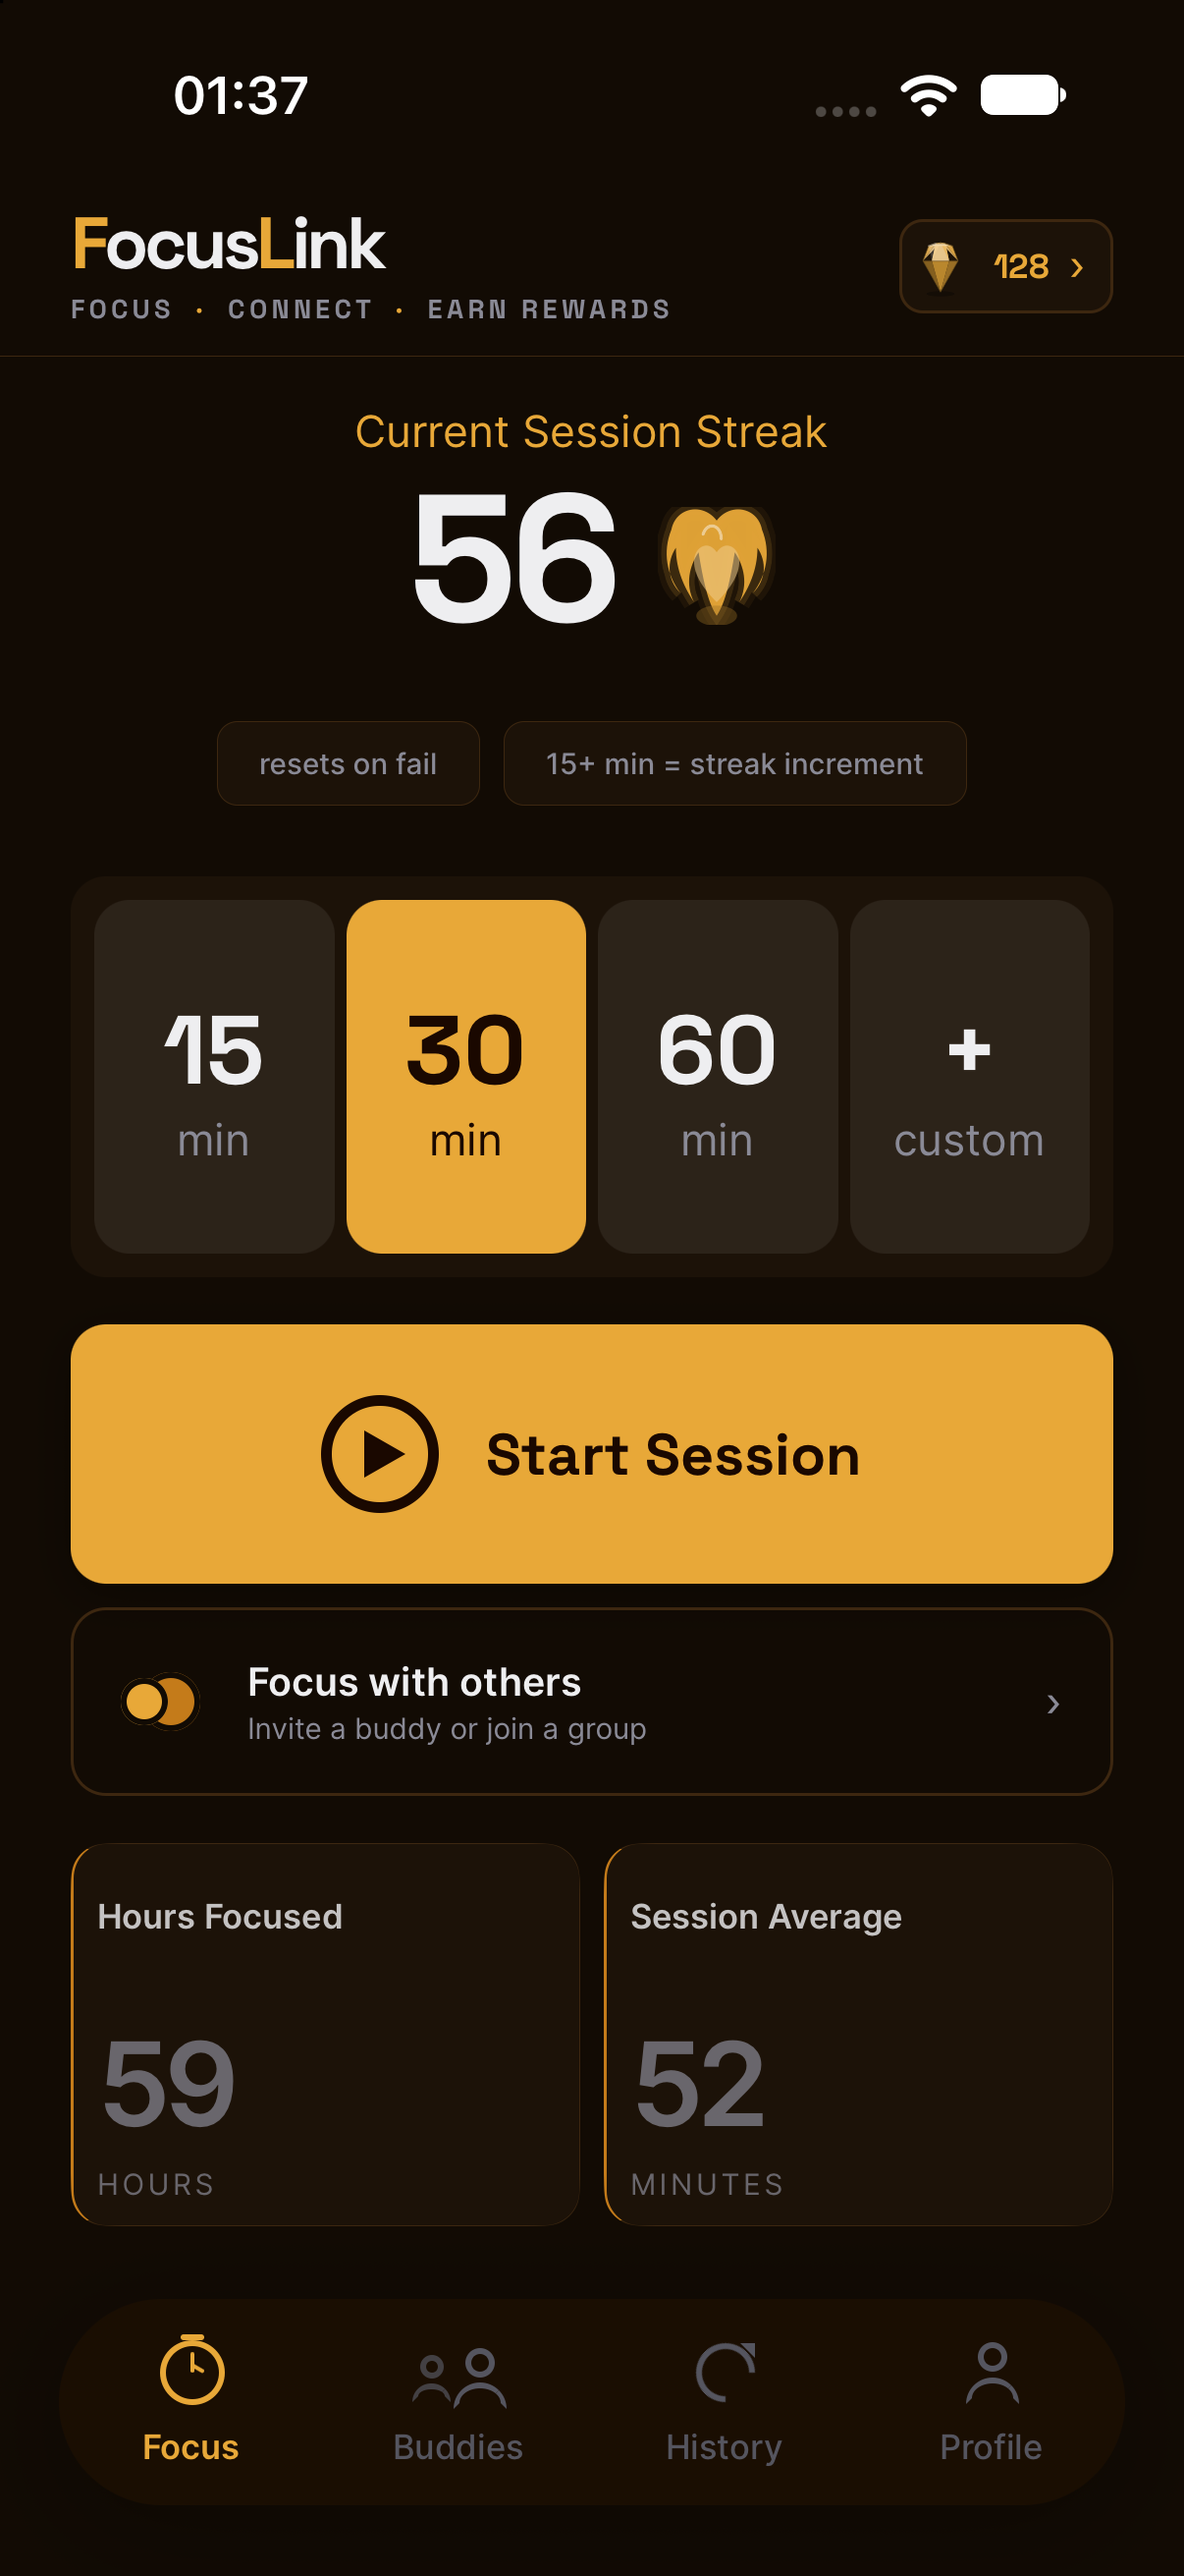
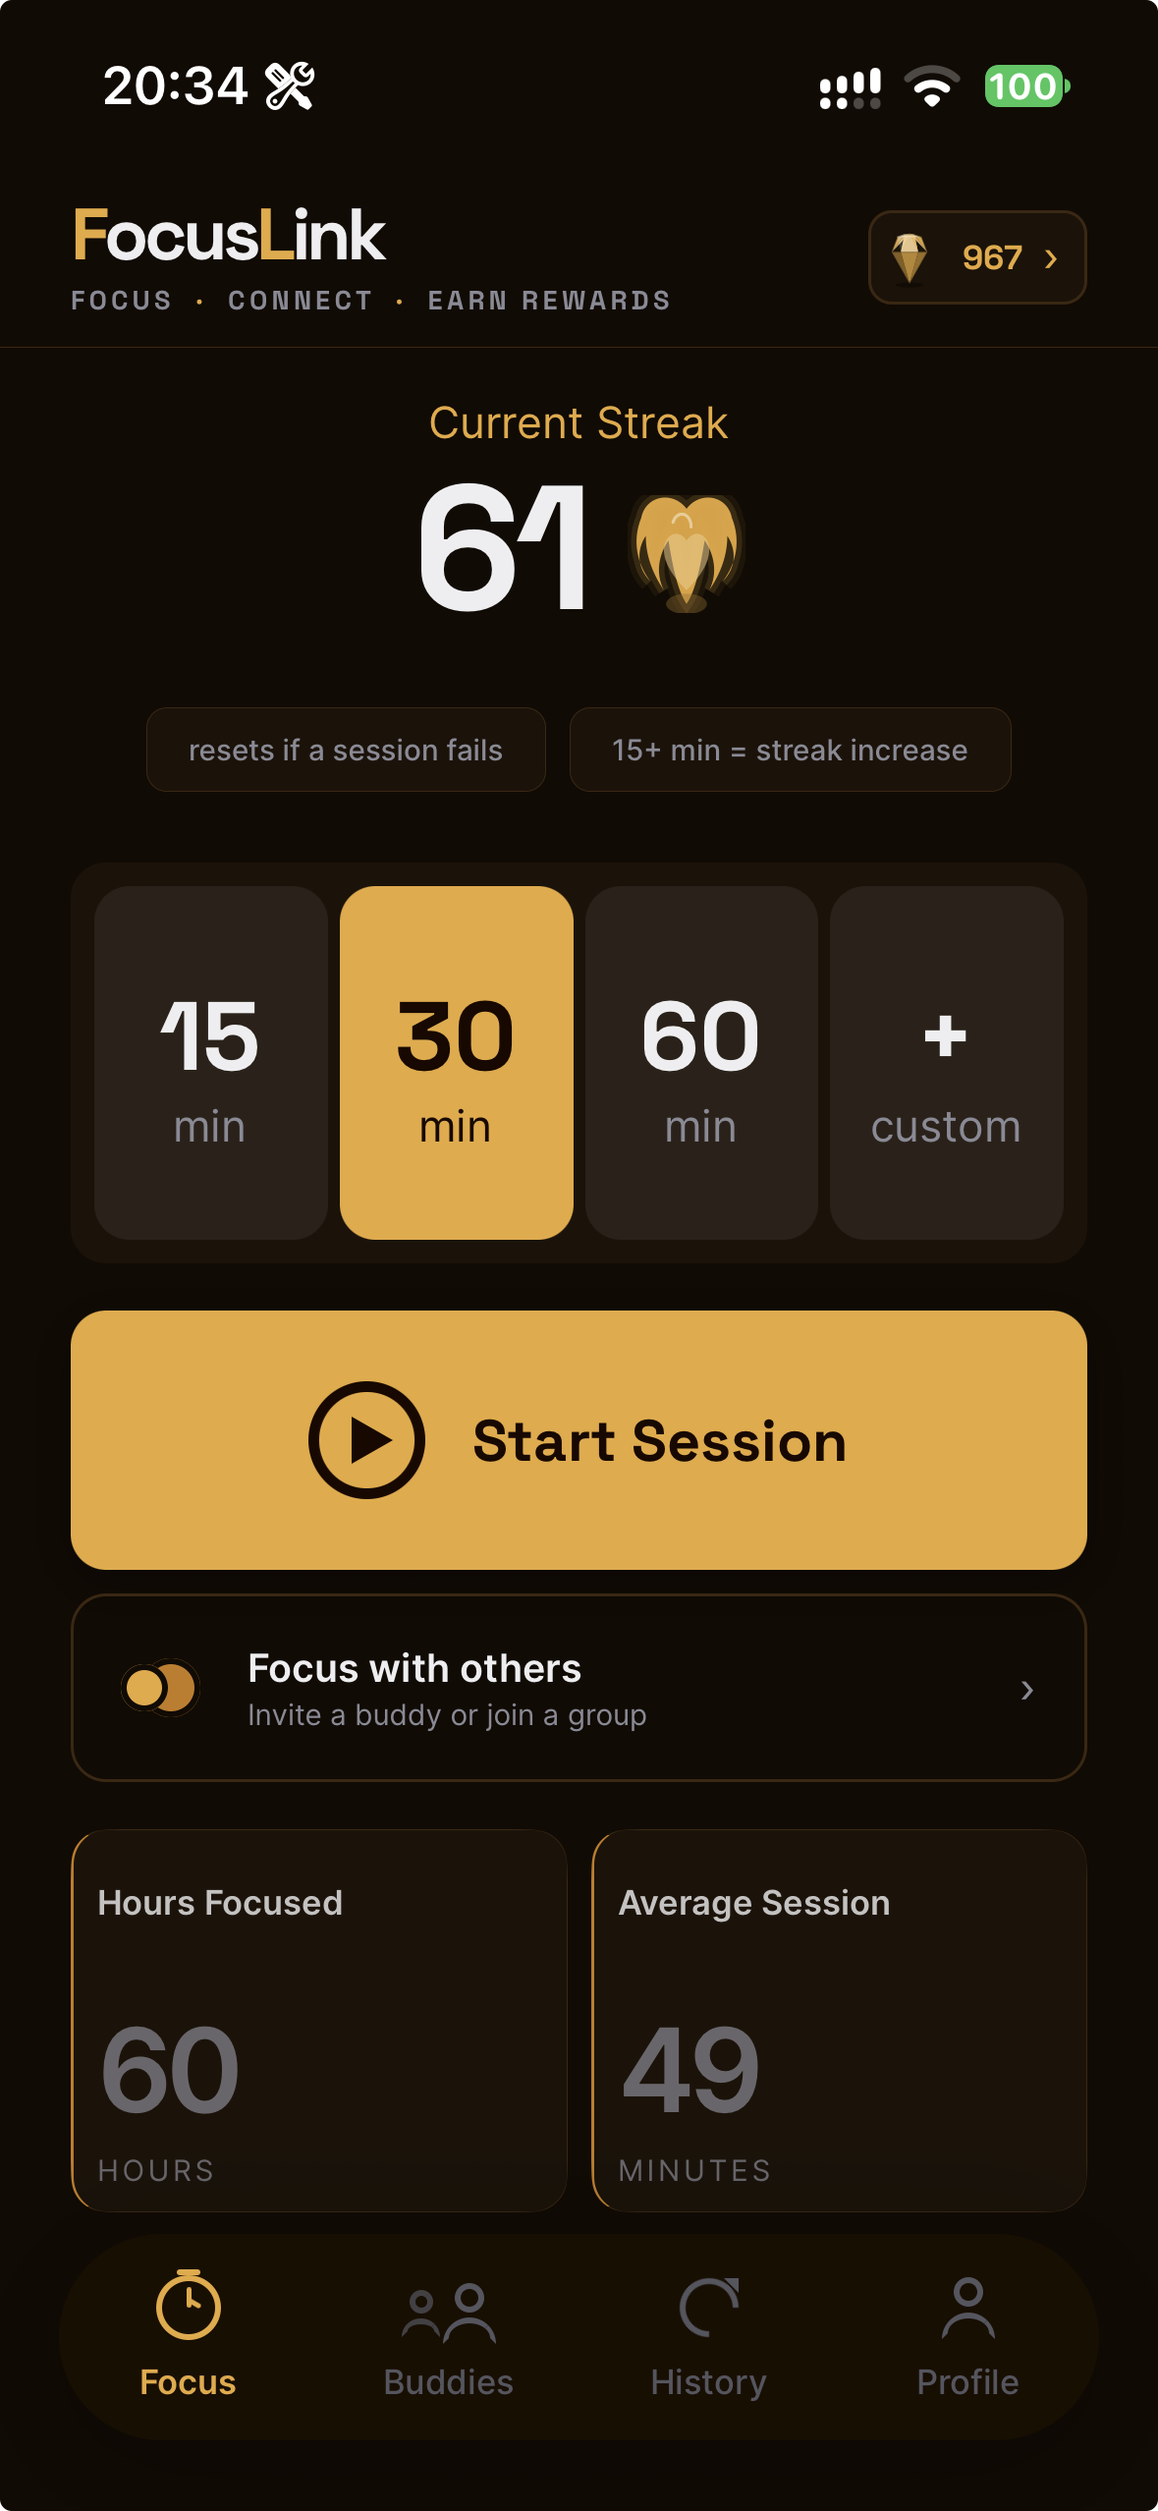
Update homepage image and alt text for improved accuracy and SEO

diff --git a/public/de/index.html b/public/de/index.html
@@ -339,7 +339,7 @@
       <div class="hero-shot">
         <div class="phone">
           <img src="/images/homepage.webp" width="640" height="1391"
-            alt="FocusLink-Startbildschirm auf dem iPhone: eine aktuelle Streak von 56 Sitzungen, Buttons für 15, 30 und 60 Minuten oder eine eigene Dauer, 30 ist ausgewählt, ein großer Start-Session-Button, die Option „Focus with others“ und Statistiken mit 59 fokussierten Stunden und 52 Minuten im Schnitt"
+            alt="FocusLink-Startbildschirm auf dem iPhone: eine aktuelle Streak von 61 Sitzungen, Buttons für 15, 30 und 60 Minuten oder eine eigene Dauer, 30 ist ausgewählt, ein großer Start-Session-Button, die Option „Focus with others“ und Statistiken mit 60 fokussierten Stunden und 49 Minuten im Schnitt"
             fetchpriority="high" decoding="async">
         </div>
       </div>

diff --git a/public/index.html b/public/index.html
@@ -336,7 +336,7 @@
       <div class="hero-shot">
         <div class="phone">
           <img src="/images/homepage.webp" width="640" height="1391" 
-            alt="FocusLink home screen on iPhone: a current streak of 56 sessions, duration buttons for 15, 30 and 60 minutes or custom with 30 selected, a large Start Session button, a Focus with others option, and stats showing 59 hours focused and a 52-minute session average"  
+            alt="FocusLink home screen on iPhone: a current streak of 61 sessions, duration buttons for 15, 30 and 60 minutes or + custom button, 30 minutes selected, a large Start Session button, a Focus with others option, and stats showing 60 hours focused and a 49-minute session average"  
             fetchpriority="high" decoding="async">
         </div>
       </div>
